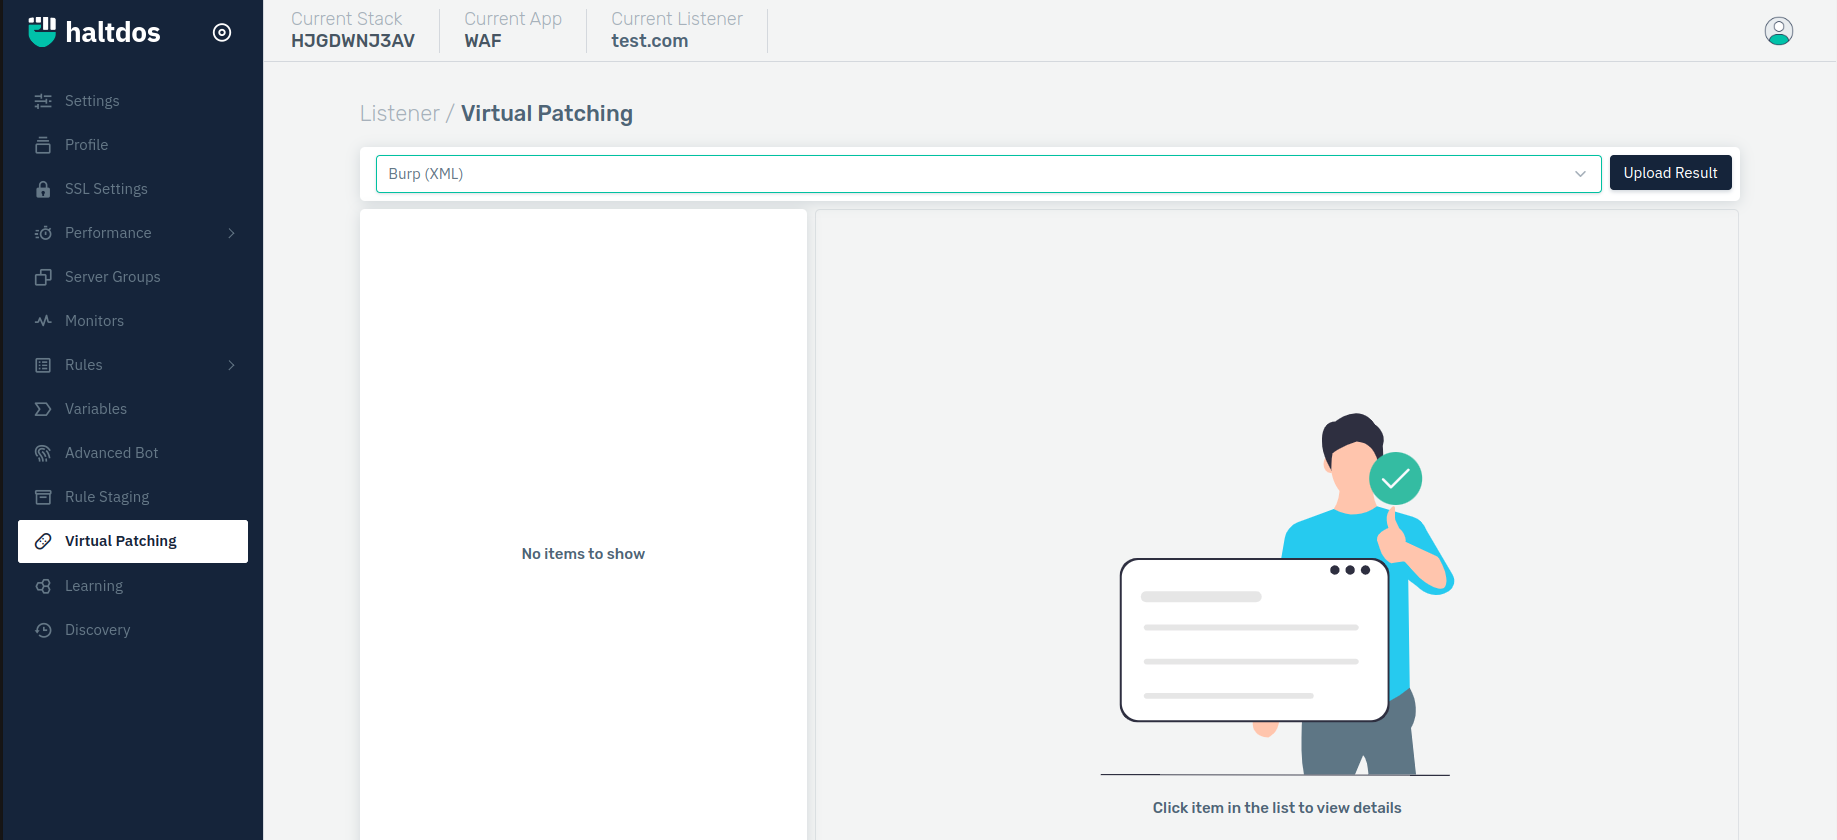
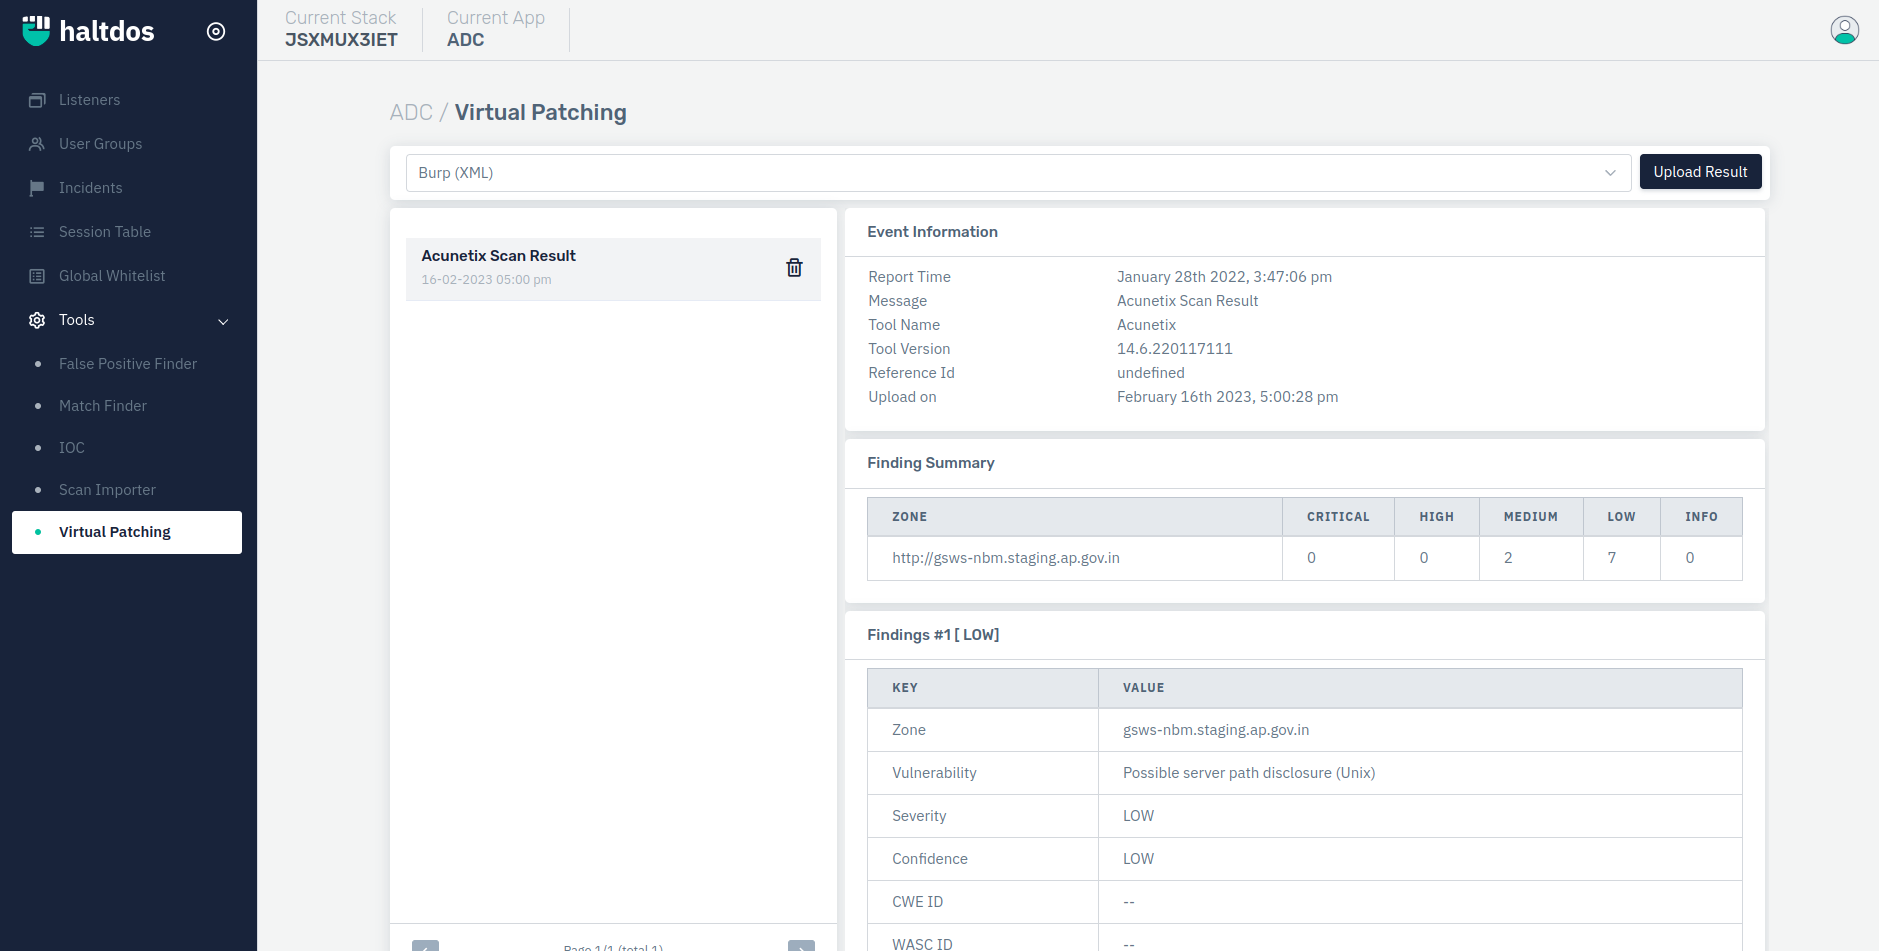
Scan Importer a& Virtual P update

diff --git a/docs/products/waf/tools/scan_importer.md b/docs/products/waf/tools/scan_importer.md
@@ -1,0 +1,99 @@
+---
+sidebar_position: 5
+---
+# Scan Importer
+
+---
+
+### Overview
+
+Scan Importer is an API based tool provided in Haltdos WAF to pull scan results A security policy enforcement layer that prevents known vulnerabilities from being exploited.
+Since the security enforcement layer analyzes transactions and intercepts attacks in transit, malicious traffic never reaches the web application with the virtual patch. Virtual patches prevent exploitation attempts from succeeding, even when no changes have been made to the application source code.
+
+![Scan Importer](/img/waf/v2/scanimporter.png)
+
+### How to use:
+
+1. Go to **WAF** > **Tools** > **Scan Importer**
+2. Configure your scanner settings.
+3. Click on **save changes**
+
+| Parameter        | Accepted Value | Default Values |
+|------------------|----------------|----------------|
+| Enabled          | Boolean        | False          |
+| Name             | String         | Blank          |
+| Scan Tool        | Drop-down      | Blank          |
+| HTTP Method      | Drop-down      | GET            |
+| URL              | String         | Blank          |
+| Import Frequency | String         | Blank          |
+| Next Run         | Drop-down      | Current Time   |
+| Time zones        | Drop-down      | Africa/Abidjan |
+
+### Description
+
+##### **Enabled**
+This option allows users to enable the scan importer.
+
+##### **Name**
+
+This option allows users to configure a user-friendly name for the scan rule.
+
+##### **Scan Tool**
+
+This option allows users to select the scanning tools from the list of tools provided.
+
+##### **HTTP method**
+This option allows users to select the HTTP method for the scanning requests. Users can select any HTTP method among GET, PUT, & POST.
+
+##### **URL**
+
+This option allows users to add the URL for the scan import request.
+
+##### **Import Frequency**
+
+This option allows users to set the scanning frequency. The scan will run on the mentioned frequency without any manual intervention.
+
+##### **Next Run**
+
+This option allows users to set the next time frequency for the next run.
+
+##### **Timezone**
+
+This option allows users to set the timezone for the next run time.
+
+#### **Attribute**
+
+This option allows users to add username & password attributes for the API request. User can set the any of the following: **ARG, PARAM, HEADER, COOKIE**.
+
+
+##### **Attribute Type**
+
+This option allows users to add multiple attribute to select which attribute should be used to authenticate the API request.
+
+##### **Attribute Name**
+
+This option allows users to select the attribute name.
+
+##### **Attribute Value**
+
+This option allows users to set the attribute value.
+
+
+
+
+
+
+
+
+
+
+
+
+
+
+
+
+
+
+
+

diff --git a/docs/products/waf/tools/virtualpatching.md b/docs/products/waf/tools/virtualpatching.md
@@ -1,6 +1,7 @@
 ---
-sidebar_position: 11
+sidebar_position: 6
 ---
+
 # Virtual Patching 
 Integration with SAST / DAST scanners
 
@@ -20,7 +21,7 @@ Virtual Patching is a feature of Haltdos WAF to display all the scan results and
 
 ### How to Use:
 
-1. Go to **WAF** > **Listener** > **Virtual Patching**
+1. Go to **WAF** > **Virtual Patching**
 2. Configure your settings
 3. Click **Save Changes**.
 
